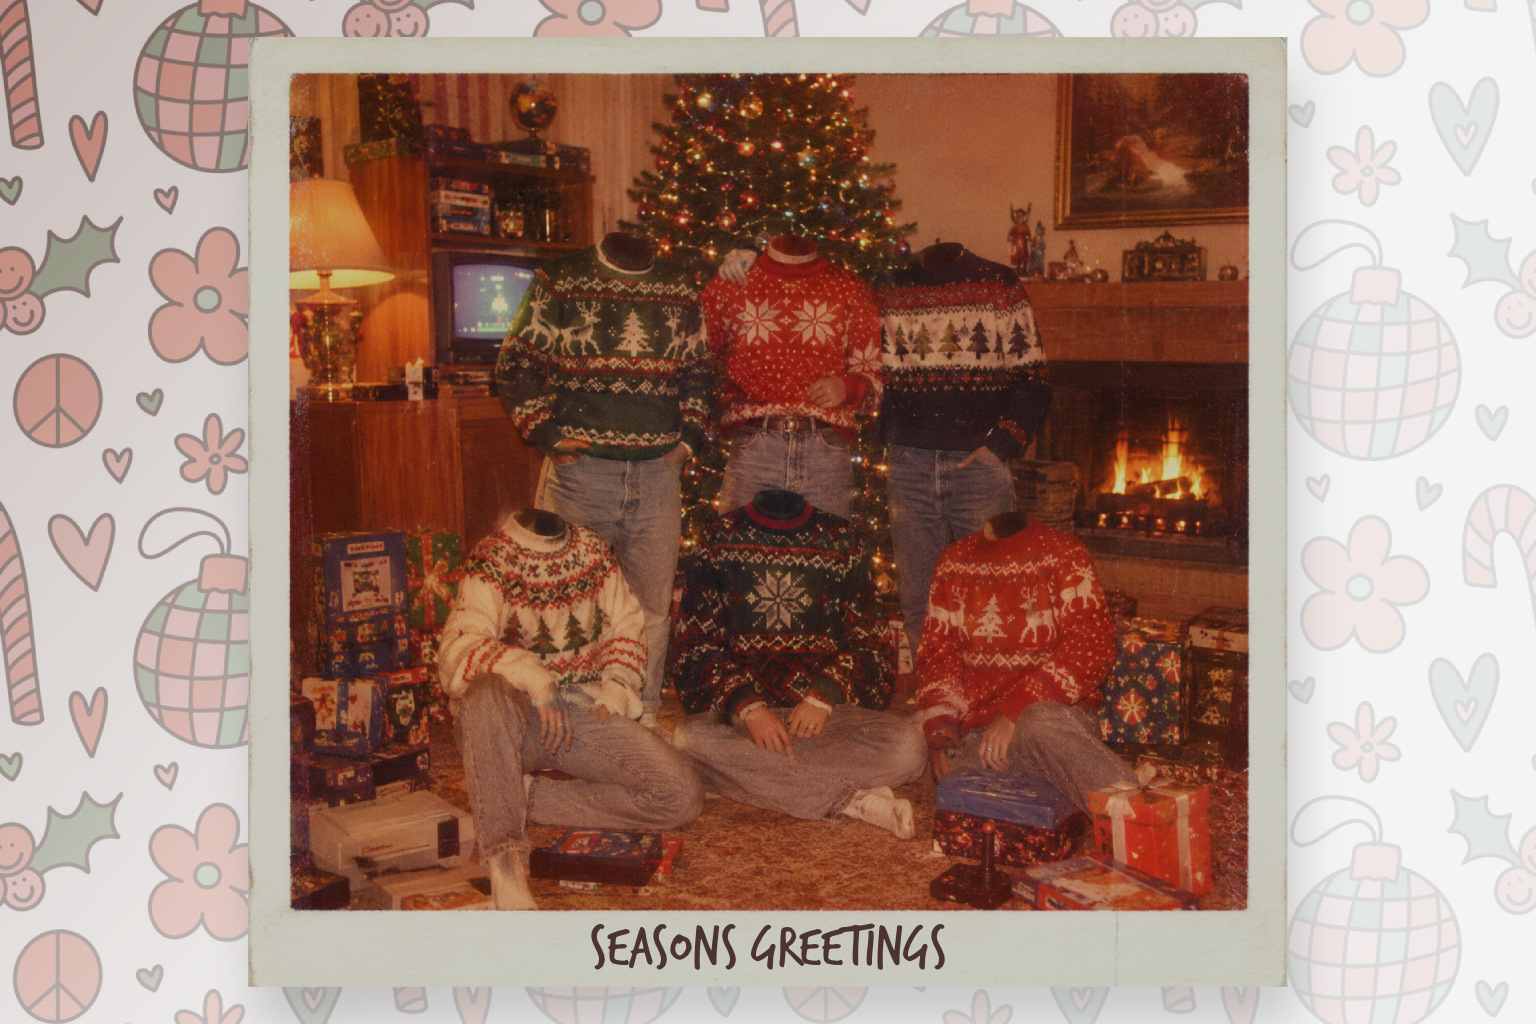
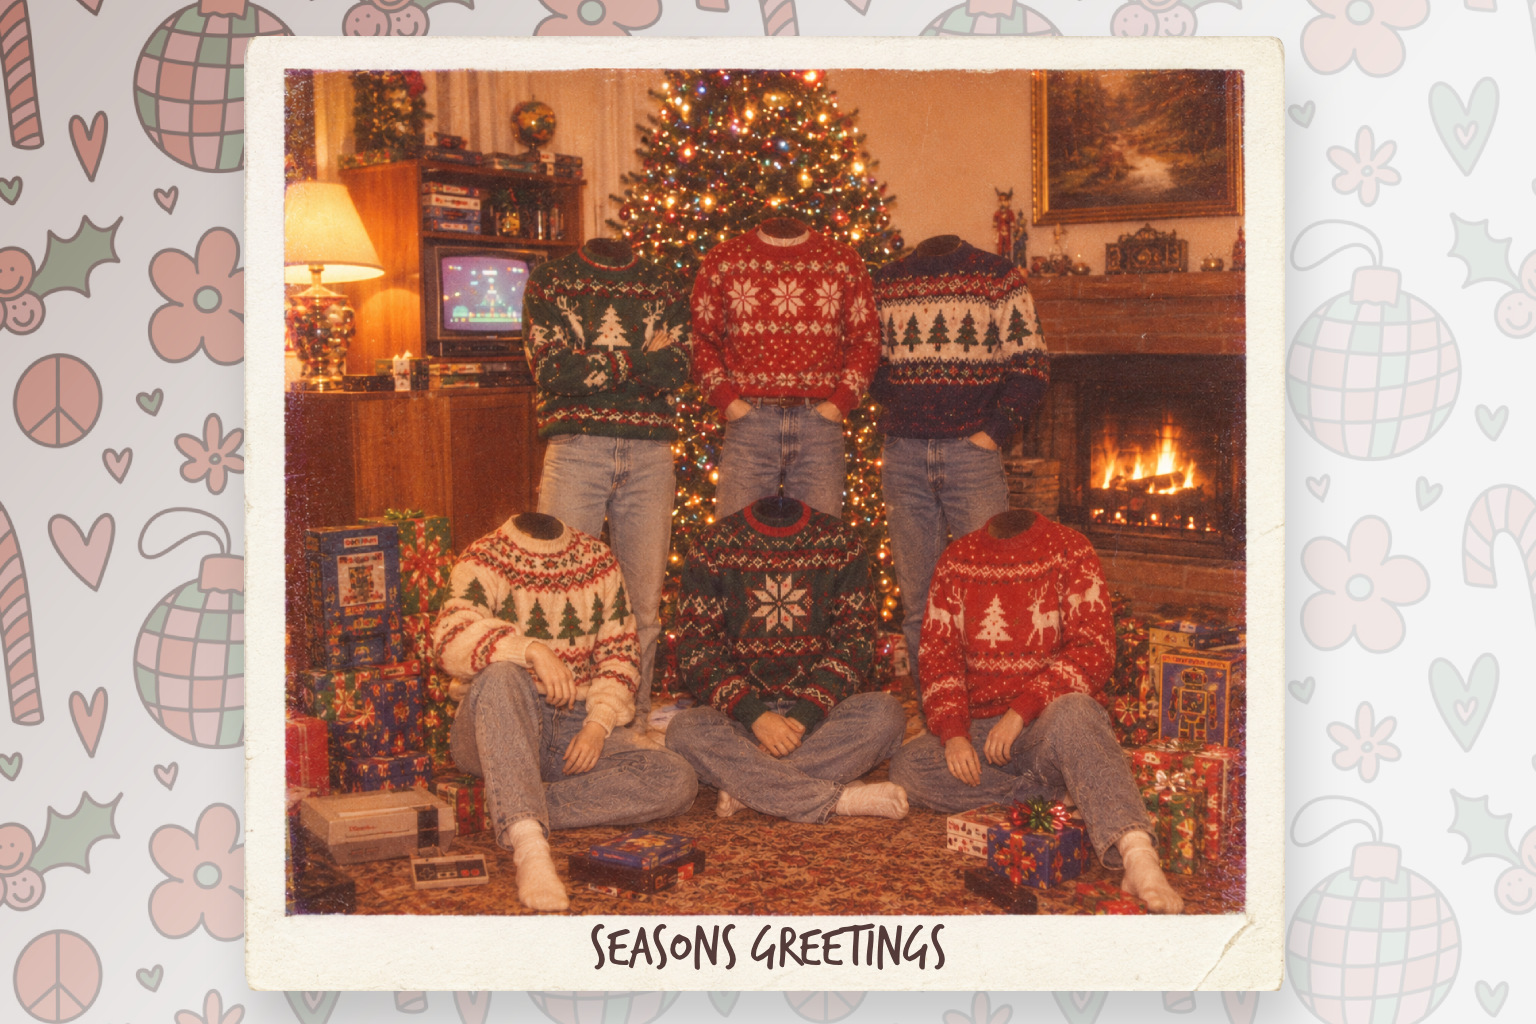
Christmas: updated photo, smaller heads on the new necks

diff --git a/public/scenes.js b/public/scenes.js
@@ -358,14 +358,14 @@
     name: 'Christmas',
     src: 'assets/bg/christmas.jpg',
     necks: [
-      [655, 167, 32],
-      [648, 346, 34],
-      [539, 165, 32],
-      [763, 172, 31],
-      [480, 359, 31],
-      [807, 364, 31],
+      [650, 159, 31],
+      [646, 354, 32],
+      [528, 171, 31],
+      [764, 169, 31],
+      [476, 364, 31],
+      [811, 362, 31],
     ],
-    headScale: 6.4,
+    headScale: 5.2,
     sink: 1.05,
     // Faded, warm 80s film.
     tone: 'sepia(0.35) saturate(0.85) contrast(0.92) brightness(1.02)',
